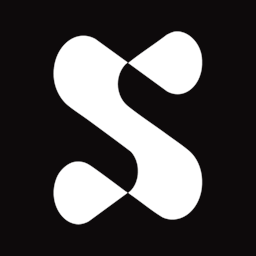
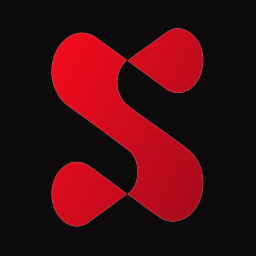
Ícone com o S vermelho da Stond
Claude-Session: https://claude.ai/code/session_01QD8sSbVnES7mqWLXnrVaBb

Changed region(s): [[0.1875, 0.0938, 0.8125, 0.9062]]

diff --git a/index.html b/index.html
@@ -7,7 +7,7 @@
 <meta name="description" content="Área do cliente Stond: aprove seus conteúdos, veja o calendário e acompanhe suas métricas.">
 <meta name="theme-color" content="#0d0a0b">
 <meta name="robots" content="noindex">
-<link rel="icon" href="assets/icone.png">
+<link rel="icon" href="assets/favicon.png">
 <link rel="apple-touch-icon" href="assets/icone.png">
 <link rel="preconnect" href="https://fonts.googleapis.com">
 <link rel="preconnect" href="https://fonts.gstatic.com" crossorigin>
